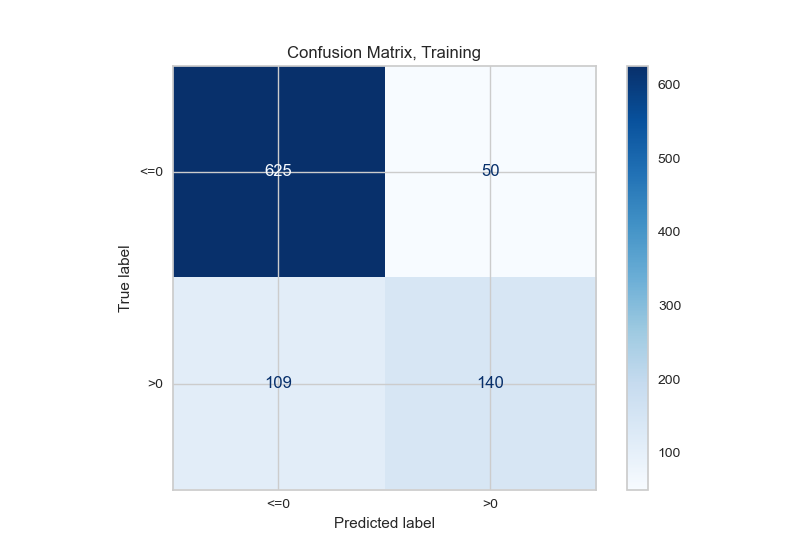
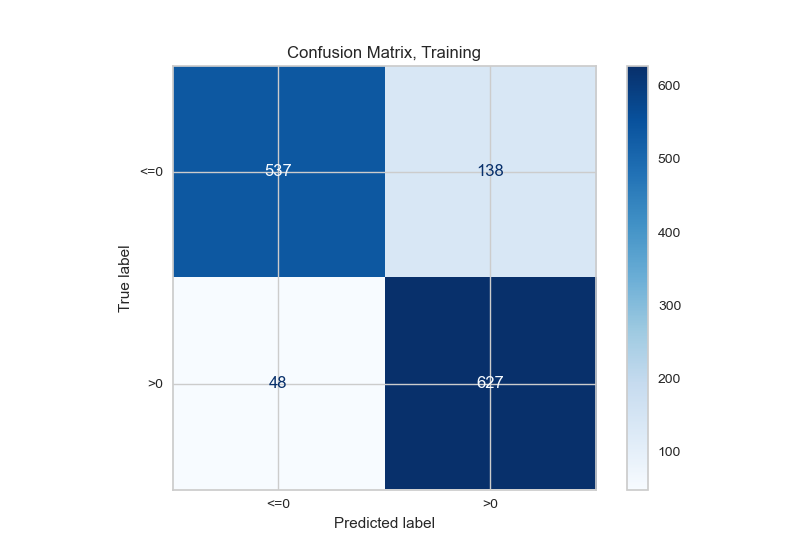
oversampling

diff --git a/model_helpers.py b/model_helpers.py
@@ -17,6 +17,8 @@ from sklearn.model_selection import GridSearchCV
 from yellowbrick.classifier import ClassPredictionError
 from yellowbrick.classifier import ROCAUC
 
+from imblearn.over_sampling import RandomOverSampler
+
 ########################################################################################################################
 # FUNCTIONS ############################################################################################################
 ########################################################################################################################
@@ -111,6 +113,10 @@ def prepare_training_and_test_data(X, X_addl, use_X_addl, num_days_performance, 
     # Note that this splitting is inclusive of the first index and exclusive of the second index
     X_train = X[0:train_end_ind]
     y_train = y[0:train_end_ind]
+
+    # Oversample the minority class
+    rs = RandomOverSampler(sampling_strategy=1, random_state=7)
+    X_train, y_train = rs.fit_resample(X_train, y_train)
 
     X_test = X[train_end_ind:test_end_ind]
     y_test = y[train_end_ind:test_end_ind]
